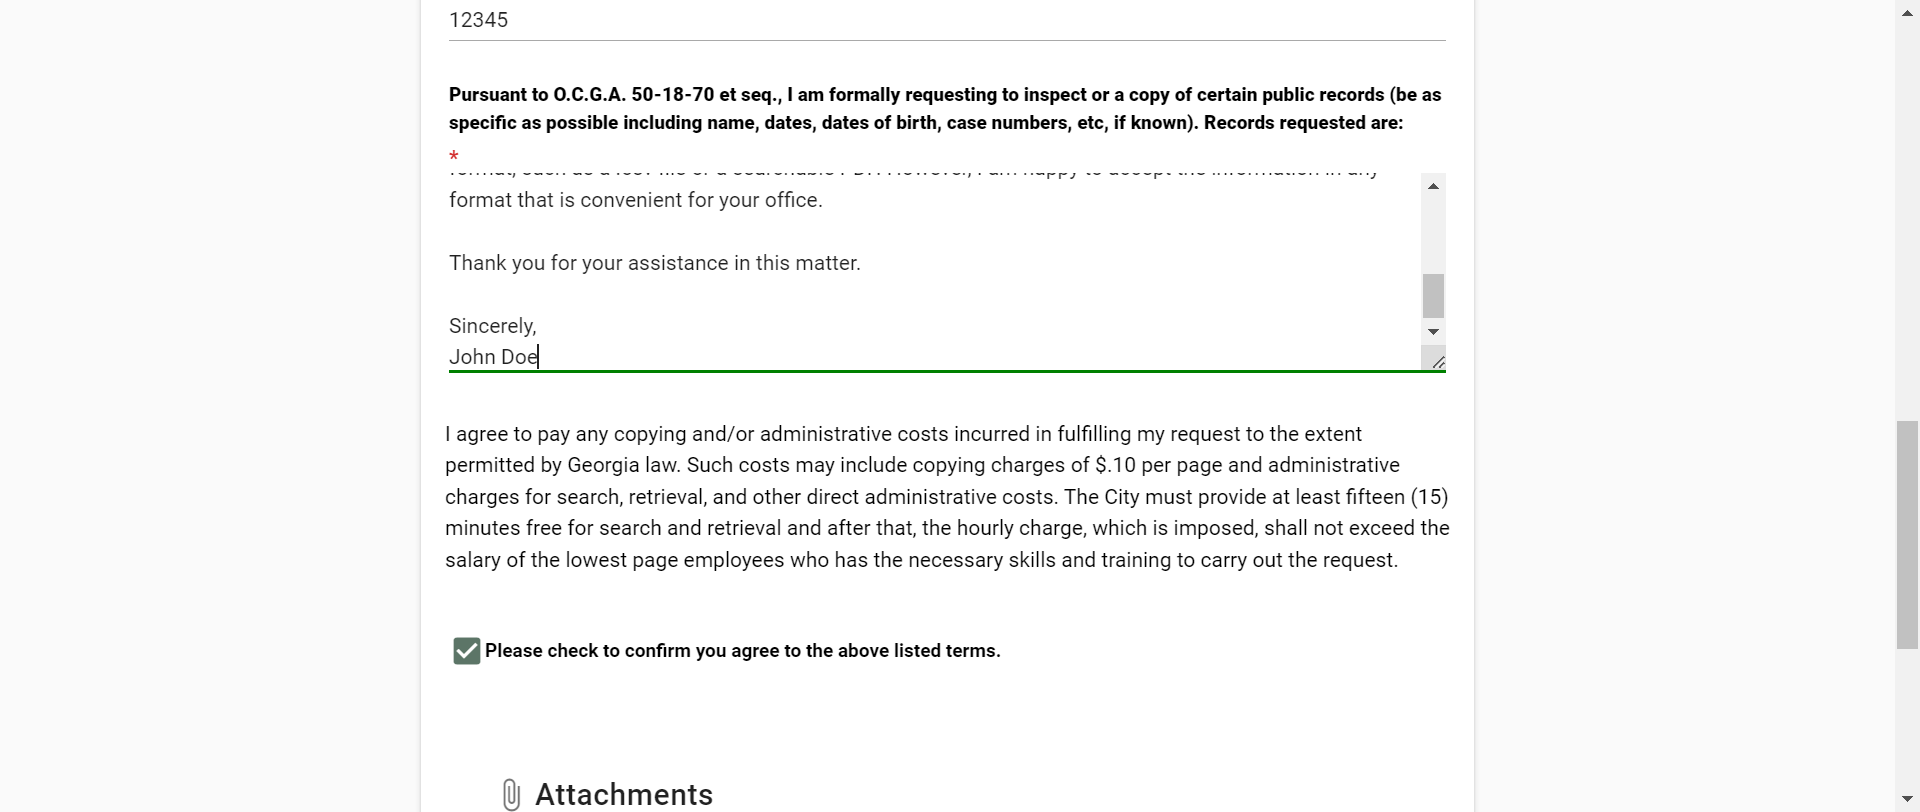
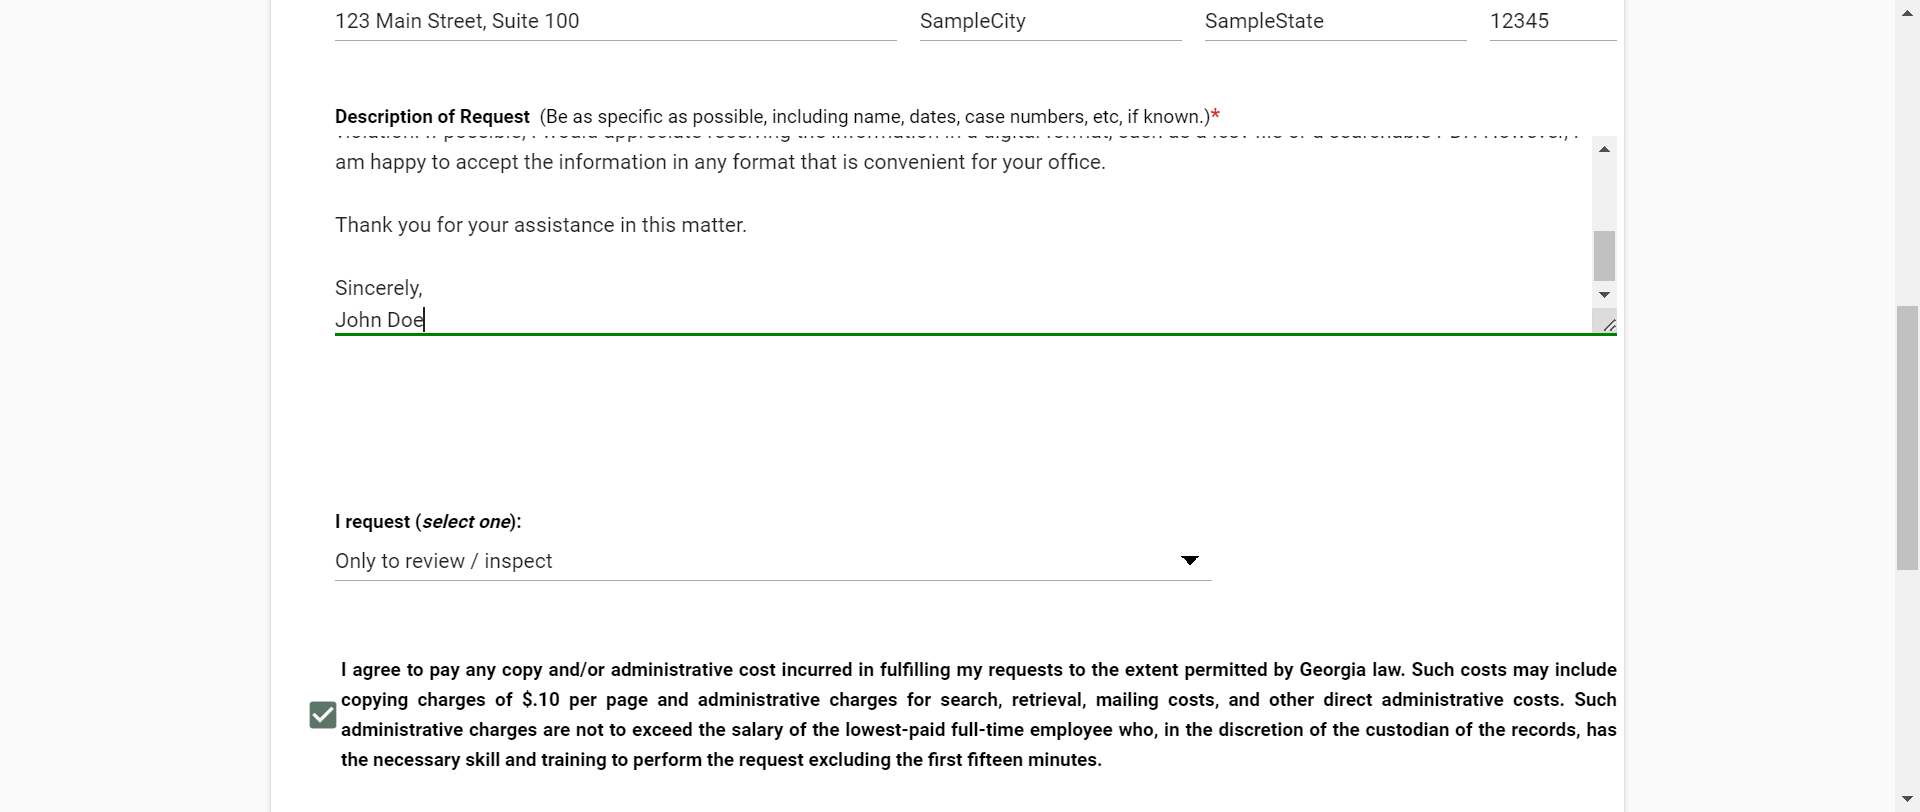
hapevillega

diff --git a/fire.py b/fire.py
@@ -998,7 +998,6 @@ def handle_unioncityga_form(driver, url):
         driver.save_screenshot("error_main.png")
         return {"status": "Failed", "error": str(e)}
     
-
 def handle_hapevillega_form(driver, url):
     try:
         driver.get(url)
@@ -1009,47 +1008,38 @@ def handle_hapevillega_form(driver, url):
 
         # Fill all fields
         fields_to_fill = {
-            "/html/body/div[1]/div[2]/main/div/div[1]/form/div[2]/div/div[2]/div[1]/input": form_data["name"],
-            "/html/body/div[1]/div[2]/main/div/div[1]/form/div[2]/div/div[4]/div[1]/input": form_data["phone"],
-            "/html/body/div[1]/div[2]/main/div/div[1]/form/div[2]/div/div[3]/div[1]/input": form_data["email"],
-            "/html/body/div[1]/div[2]/main/div/div[1]/form/div[2]/div/div[6]/div[1]/input": form_data["address"],
-            "/html/body/div[1]/div[2]/main/div/div[1]/form/div[2]/div/div[7]/div[1]/input": form_data["city"],
-            "/html/body/div[1]/div[2]/main/div/div[1]/form/div[2]/div/div[5]/div[1]/input": form_data["state"],
-            "/html/body/div[1]/div[2]/main/div/div[1]/form/div[2]/div/div[8]/div[1]/input": form_data["zip"]
+            "/html/body/div[1]/div[2]/main/div/div[1]/form/div[2]/div/div[1]/div[1]/input": form_data["name"],
+            "/html/body/div[1]/div[2]/main/div/div[1]/form/div[2]/div/div[3]/div[1]/input": form_data["phone"],
+            "/html/body/div[1]/div[2]/main/div/div[1]/form/div[2]/div/div[2]/div[1]/input": form_data["email"],
+            "/html/body/div[1]/div[2]/main/div/div[1]/form/div[2]/div/div[4]/div[1]/input": form_data["address"],
+            "/html/body/div[1]/div[2]/main/div/div[1]/form/div[2]/div/div[5]/div[1]/input": form_data["city"],
+            "/html/body/div[1]/div[2]/main/div/div[1]/form/div[2]/div/div[6]/div[1]/input": form_data["state"],
+            "/html/body/div[1]/div[2]/main/div/div[1]/form/div[2]/div/div[7]/div[1]/input": form_data["zip"]
         }
 
         for xpath, value in fields_to_fill.items():
             fill_field(driver, wait, xpath, value)
 
         # Fill request details
-        details_xpath = "/html/body/div[1]/div[2]/main/div/div[1]/form/div[2]/div/div[11]/div[1]/textarea"
+        details_xpath = "/html/body/div[1]/div[2]/main/div/div[1]/form/div[2]/div/div[8]/div[1]/textarea"
         details = wait.until(EC.presence_of_element_located((By.XPATH, details_xpath)))
         details.clear()
         details.send_keys(form_data["message"])
         print("Filled request details")
 
         # Handle dropdown selection
-        dropdown1_xpath = "/html/body/div[1]/div[2]/main/div/div[1]/form/div[2]/div/div[19]/div[1]/select"
+        dropdown1_xpath = "/html/body/div[1]/div[2]/main/div/div[1]/form/div[2]/div/div[9]/div[1]/select"
         dropdown1 = Select(wait.until(EC.presence_of_element_located((By.XPATH, dropdown1_xpath))))
         available_options = [o.text.strip() for o in dropdown1.options]
         print("Available options in dropdown:", available_options)
-        dropdown1.select_by_visible_text("Insurance Company")  # Adjust text as per available options
-        print("Selected dropdown option")
-
-        dropdown2_xpath = "/html/body/div[1]/div[2]/main/div/div[1]/form/div[2]/div/div[12]/div[1]/select"
-        dropdown2 = Select(wait.until(EC.presence_of_element_located((By.XPATH, dropdown2_xpath))))
-        available_options = [o.text.strip() for o in dropdown2.options]
-        print("Available options in dropdown:", available_options)
-        dropdown2.select_by_visible_text("Only to review / inspect")  # Adjust text as per available options
+        dropdown1.select_by_visible_text("Only to review / inspect")  # Adjust text as per available options
         print("Selected dropdown option")
         
-        #checkbox
-        checkbox1_xpath = "/html/body/div[1]/div[2]/main/div/div[1]/form/div[2]/div/div[9]/div[1]/div/div/div/div/div/div/div"
-        for checkbox_xpath in [checkbox1_xpath]:
-            checkbox = wait.until(EC.element_to_be_clickable((By.XPATH, checkbox_xpath)))
-            driver.execute_script("arguments[0].click();", checkbox)
-            print(f"Checked {checkbox_xpath}")
-      
+        # Handle checkbox selection
+        checkbox1_xpath = "/html/body/div[1]/div[2]/main/div/div[1]/form/div[2]/div/div[10]/div[1]/div/div/div/div/div/div/div"
+        checkbox = wait.until(EC.element_to_be_clickable((By.XPATH, checkbox1_xpath)))
+        driver.execute_script("arguments[0].click();", checkbox)
+        print(f"Checked {checkbox1_xpath}")
 
         # Take screenshot before submission
         driver.save_screenshot("before_submit.png")
@@ -1059,14 +1049,30 @@ def handle_hapevillega_form(driver, url):
         submit_button = wait.until(EC.element_to_be_clickable((By.XPATH, submit_xpath)))
         driver.execute_script("arguments[0].click();", submit_button)
         print("Clicked submit button")
-        time.sleep(5)
-        return {"status": "Success", "confirmation": "Form submitted"}
+
+        # Delay of 15 seconds after form submission
+        time.sleep(30)
+
+        # Extract confirmation message
+        try:
+            confirmation_message = driver.find_element(By.XPATH, "//*[contains(text(), 'Your request reference number is')]").text
+            print(f"Confirmation message: {confirmation_message}")
+            security_key_match = re.search(r"Your security key is (\S+)", confirmation_message)
+            reference_number_match = re.search(r"Your request reference number is (\S+)", confirmation_message)
+            security_key = security_key_match.group(1) if security_key_match else ""
+            reference_number = reference_number_match.group(1) if reference_number_match else ""
+            if not security_key or not reference_number:
+                print("Confirmation message found but could not extract reference number or security key")
+            return {"status": "Success", "confirmation": "Form submitted", "reference_number": reference_number, "security_key": security_key}
+        except NoSuchElementException:
+            print("Confirmation message not found")
+            return {"status": "Success", "confirmation": "Form submitted", "reference_number": "", "security_key": ""}
 
     except Exception as e:
         print(f"Error in form handling: {str(e)}")
         driver.save_screenshot("error_main.png")
         return {"status": "Failed", "error": str(e)}
- 
+    
 def handle_eastpointga_form(driver, url):
     try:
         driver.get(url)

diff --git a/code violations.py b/code violations.py
@@ -1936,9 +1936,7 @@ def handle_fairburnga_form(driver, url):
         print(f"Error in form handling: {str(e)}")
         driver.save_screenshot("error_main.png")
         return {"status": "Failed", "error": str(e)}
-
 def handle_hapevillega_form(driver, url):
-  
     try:
         driver.get(url)
         wait = WebDriverWait(driver, 20)
@@ -1975,13 +1973,11 @@ def handle_hapevillega_form(driver, url):
         dropdown1.select_by_visible_text("Only to review / inspect")  # Adjust text as per available options
         print("Selected dropdown option")
         
-        #checkbox
+        # Handle checkbox selection
         checkbox1_xpath = "/html/body/div[1]/div[2]/main/div/div[1]/form/div[2]/div/div[10]/div[1]/div/div/div/div/div/div/div"
-        for checkbox_xpath in [checkbox1_xpath]:
-            checkbox = wait.until(EC.element_to_be_clickable((By.XPATH, checkbox_xpath)))
-            driver.execute_script("arguments[0].click();", checkbox)
-            print(f"Checked {checkbox_xpath}")
-      
+        checkbox = wait.until(EC.element_to_be_clickable((By.XPATH, checkbox1_xpath)))
+        driver.execute_script("arguments[0].click();", checkbox)
+        print(f"Checked {checkbox1_xpath}")
 
         # Take screenshot before submission
         driver.save_screenshot("before_submit.png")
@@ -1991,8 +1987,24 @@ def handle_hapevillega_form(driver, url):
         submit_button = wait.until(EC.element_to_be_clickable((By.XPATH, submit_xpath)))
         driver.execute_script("arguments[0].click();", submit_button)
         print("Clicked submit button")
-        time.sleep(5)
-        return {"status": "Success", "confirmation": "Form submitted"}
+
+        # Delay of 15 seconds after form submission
+        time.sleep(30)
+
+        # Extract confirmation message
+        try:
+            confirmation_message = driver.find_element(By.XPATH, "//*[contains(text(), 'Your request reference number is')]").text
+            print(f"Confirmation message: {confirmation_message}")
+            security_key_match = re.search(r"Your security key is (\S+)", confirmation_message)
+            reference_number_match = re.search(r"Your request reference number is (\S+)", confirmation_message)
+            security_key = security_key_match.group(1) if security_key_match else ""
+            reference_number = reference_number_match.group(1) if reference_number_match else ""
+            if not security_key or not reference_number:
+                print("Confirmation message found but could not extract reference number or security key")
+            return {"status": "Success", "confirmation": "Form submitted", "reference_number": reference_number, "security_key": security_key}
+        except NoSuchElementException:
+            print("Confirmation message not found")
+            return {"status": "Success", "confirmation": "Form submitted", "reference_number": "", "security_key": ""}
 
     except Exception as e:
         print(f"Error in form handling: {str(e)}")

diff --git a/water.py b/water.py
@@ -711,13 +711,11 @@ def handle_hapevillega_form(driver, url):
         dropdown1.select_by_visible_text("Only to review / inspect")  # Adjust text as per available options
         print("Selected dropdown option")
         
-        #checkbox
+        # Handle checkbox selection
         checkbox1_xpath = "/html/body/div[1]/div[2]/main/div/div[1]/form/div[2]/div/div[10]/div[1]/div/div/div/div/div/div/div"
-        for checkbox_xpath in [checkbox1_xpath]:
-            checkbox = wait.until(EC.element_to_be_clickable((By.XPATH, checkbox_xpath)))
-            driver.execute_script("arguments[0].click();", checkbox)
-            print(f"Checked {checkbox_xpath}")
-      
+        checkbox = wait.until(EC.element_to_be_clickable((By.XPATH, checkbox1_xpath)))
+        driver.execute_script("arguments[0].click();", checkbox)
+        print(f"Checked {checkbox1_xpath}")
 
         # Take screenshot before submission
         driver.save_screenshot("before_submit.png")
@@ -727,8 +725,24 @@ def handle_hapevillega_form(driver, url):
         submit_button = wait.until(EC.element_to_be_clickable((By.XPATH, submit_xpath)))
         driver.execute_script("arguments[0].click();", submit_button)
         print("Clicked submit button")
-        time.sleep(5)
-        return {"status": "Success", "confirmation": "Form submitted"}
+
+        # Delay of 15 seconds after form submission
+        time.sleep(30)
+
+        # Extract confirmation message
+        try:
+            confirmation_message = driver.find_element(By.XPATH, "//*[contains(text(), 'Your request reference number is')]").text
+            print(f"Confirmation message: {confirmation_message}")
+            security_key_match = re.search(r"Your security key is (\S+)", confirmation_message)
+            reference_number_match = re.search(r"Your request reference number is (\S+)", confirmation_message)
+            security_key = security_key_match.group(1) if security_key_match else ""
+            reference_number = reference_number_match.group(1) if reference_number_match else ""
+            if not security_key or not reference_number:
+                print("Confirmation message found but could not extract reference number or security key")
+            return {"status": "Success", "confirmation": "Form submitted", "reference_number": reference_number, "security_key": security_key}
+        except NoSuchElementException:
+            print("Confirmation message not found")
+            return {"status": "Success", "confirmation": "Form submitted", "reference_number": "", "security_key": ""}
 
     except Exception as e:
         print(f"Error in form handling: {str(e)}")
